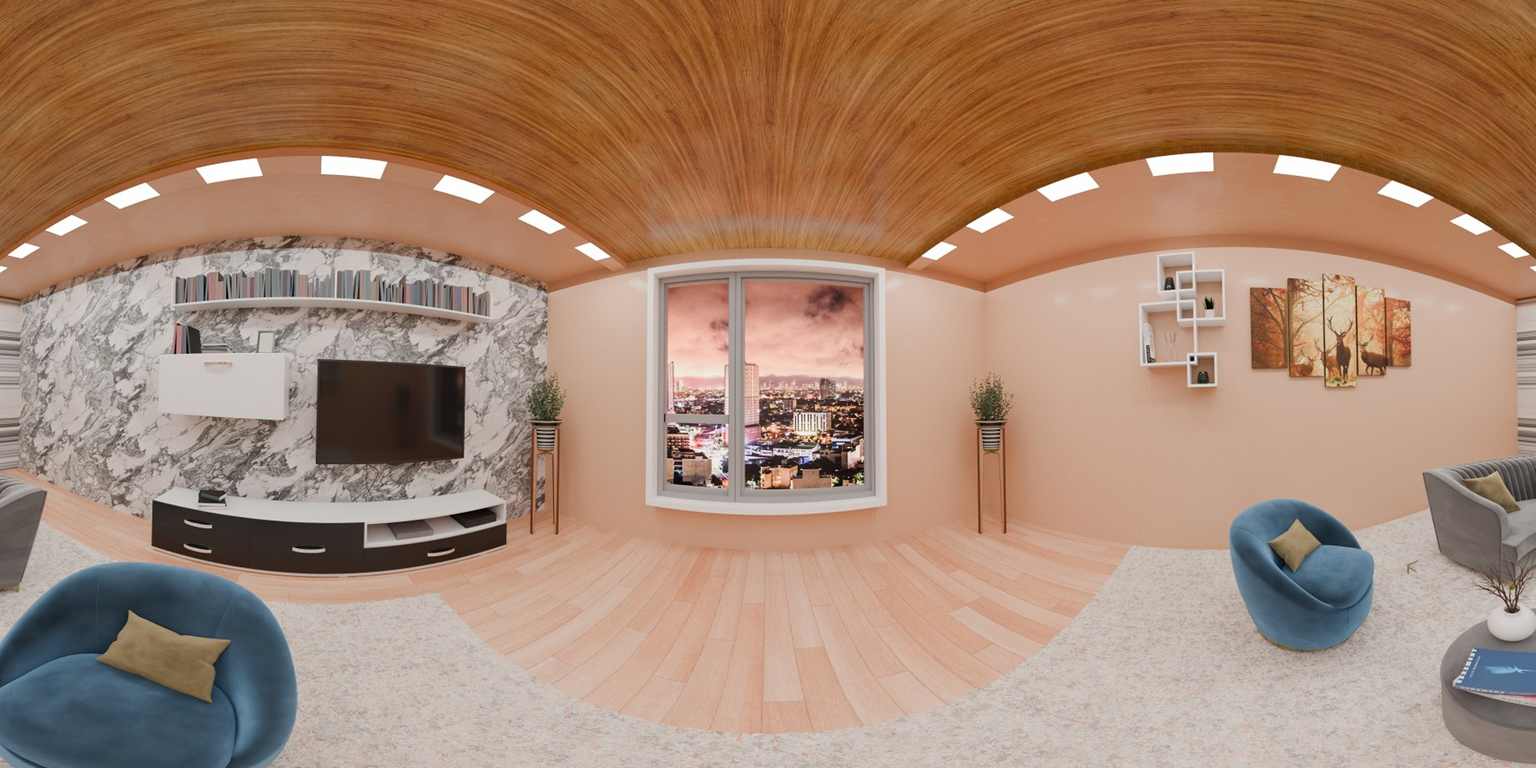
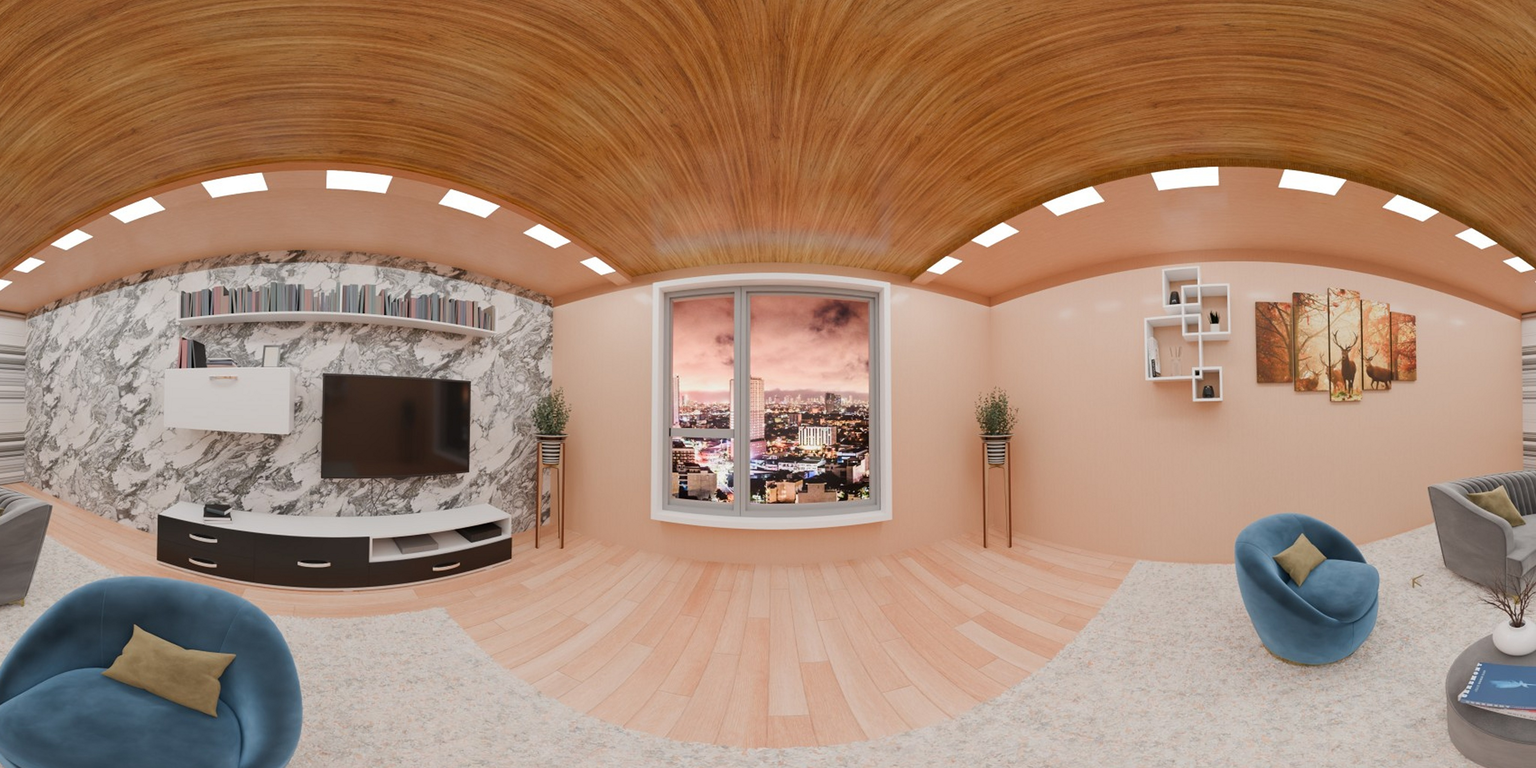
Hang the blind from the top of the window, not the middle of it
Reported as the blind sitting low, and it was - because the fit matched the
window's CENTRE to the blind's centre. A blind hangs from a headrail fixed at
the top of the window; it does not float in the middle of it.

The wooden room settles it. The blind's own geometry puts its box at
(1837, 788)-(2234, 1179); the window measures (1838, 785)-(2262, 1215). The top
edges are flush to within 3 px and the window carries on below the blind by
3.9 degrees. Matching centres put the blind roughly half that overhang too low,
which is exactly what it looked like.

So a room is now scaled uniformly until its window is as wide as the reference
one - width being what decides whether the blind covers the glass - and then
pinned by the window's TOP edge. What is left over shows below, which is where
a window is supposed to show.

The supplied room fits wooden at x1.280 and leaves 3.9 degrees below the blind,
the same as the reference room, and vertical at x0.851 with the blind 3% inside
the glass.

WINDOWS replaces the previous per-product table: the reference window measured
off each product's own room, rather than the blind's box with a guessed reveal
around it. verify_room.py draws the blind's footprint so the top alignment can
be seen rather than argued about.

diff --git a/README.md b/README.md
@@ -266,73 +266,64 @@ is not exactly 2:1 shows a pinched ceiling and a visible seam.
 
 ### Fitting a room to the blind: `window`
 
-The blind hangs at the middle of the bundle's world and **cannot be moved or
-resized** - it is geometry at a fixed distance from a fixed camera, compiled in.
-Measured off the running wooden scene it is **34.9 deg wide by 34.3 deg tall,
-3.5 deg above the horizon**, and the wooden room puts a window right there:
-**36.9 x 38.2 deg, dead centre**, leaving a little reveal around it.
+The blind **cannot be moved or resized** - it is geometry at a fixed distance
+from a fixed camera, compiled into the bundle. So the room is fitted to it.
 
-**Each product has its own target**, because the blinds are not the same size.
-A vertical blind is far wider than a wooden one, and its room's window is
-**56.1 x 47.8 deg**. Fitting a room against the wrong product's target hangs
-the blind over the wall or leaves it lost in the glass, so `make_variants.py`
-keeps a `TARGETS` table keyed by `based_on`. To add a base product, grid its
-own room and read the window off it:
-
-```bash
-python grid_window.py <bench>/.../maps/preload/<product>/scenebk.jpg 1700 700 2400 1400 1
-```
-
-One supplied room can serve several products - each variant fits it to its own
-blind and writes its own `/maps/scenes/<key>.jpg`. `wooden-premium` and
-`vertical-premium` share one file: the wooden blind needs the room pushed back
-(x1.287), the vertical blind needs it pulled forward (x0.850), and
-`scene_fit: "width"` on the vertical one stops the wide blind overhanging the
-glass.
-
-So the room has to be fitted to the blind. Measure the window in the supplied
-image and give its outer frame in that image's own pixels:
+Measure the window in the supplied image and give its outer frame in that
+image's own pixels:
 
 ```json
-"window": [347.5, 395.0, 636.0, 675.0]
+"window": [857, 357, 1122, 640]
 ```
 
-`reproject()` derives everything else - where to aim, and how much to scale so
-the window ends up near 36.9 x 38.2 deg.
+Everything else follows. `make_variants.py` scales the room uniformly until
+that window is as wide as the one in the product's **own** captured room, then
+pins the window's **top edge**.
 
-`scene_fit` decides how the two axes are reconciled, because a window is rarely
-the same *shape* as the one the blind was built for:
+### Why the top, and not the centre
 
-| `scene_fit` | |
-|---|---|
-| **uniform** (default) | one scale for both axes, the geometric mean. Keeps the room's proportions - it only moves the camera back or forward. |
-| exact | match each axis independently. Fits the window perfectly but stretches the room by whatever the two factors differ by. |
-| width / height | match that axis and follow it on the other. |
-| none | aim only, do not scale. |
+A blind hangs from a headrail fixed at the top of the window. It does not float
+in the middle of it. In the wooden room the blind's own geometry puts its box
+at (1837, 788)-(2234, 1179) and the window is (1838, 785)-(2262, 1215): the
+**top edges are flush to within 3 px**, and the window carries on below the
+blind. Matching the two centres instead - which this used to do - drops the
+blind by half that overhang, and it reads immediately as a blind hung too low.
 
-Prefer **uniform**. A room supplied with a wide, short window needed x1.05
-across but x0.78 up - matching both would have stretched it 36%. Uniform left
-the blind with a little more reveal at the sides than the top, which is what a
-real blind in a real recess looks like anyway. **Measure once; do not hand-
-compute the transform.** Deriving it by hand is how the scale got inverted the
-first time, and how `scene_zoom` ended up eyeballed at 1.25 when the real
-answer was 1.41 across and 1.25 up. Those differ because a window is rarely the
-same shape as the one the blind was built for, which a single uniform zoom
-cannot fix.
+Width is what decides whether the blind covers the glass, so that is what the
+scale is matched on; the leftover height shows below the blind, which is where
+a window is supposed to show. The supplied room fits wooden at x1.280, leaving
+3.9 degrees of window below the blind - the reference room has 3.9.
 
-An equirectangular image is linear in longitude and latitude, so aiming is a
-translation and fitting is a scale. It is done in **one resample straight from
-the supplied file** - rolling, then scaling, then resizing would interpolate
-three times and throw away detail a small source cannot spare. The margins that
-opens up are filled by tiling sideways (a panorama is a loop, so it is
-seamless) and by repeating the top and bottom rows, which is what the poles
-look like anyway.
+`scene_fit` can match on `height` or `uniform` instead, or `none` to skip
+scaling, but `width` is the default for this reason.
 
-Check the result with `verify_room.py <key>`, which draws the target box over
-the generated room. The window should sit inside it.
+### Every product needs its own reference
 
-`scene_center` / `scene_center_y` / `scene_zoom` still work if `window` is
-absent, but there is no good reason to use them.
+The blinds are not the same size, so the windows built around them are not
+either:
+
+| | Blind | Its room's window |
+|---|---|---|
+| wooden | 34.9 x 34.3 deg | 37.3 x 37.8 deg, top at 0.3833 |
+| vertical | 54.4 x 52.8 deg | 56.1 x 47.8 deg, top at 0.3652 |
+
+Fitting against the wrong product's reference hangs the blind over the wall.
+`WINDOWS` in `make_variants.py` holds them; to add one, grid that product's own
+room and read the window off it:
+
+```bash
+python grid_window.py <bench>/.../maps/preload/<product>/scenebk.jpg 1780 720 2320 1280 1
+```
+
+`blind_geometry.js` prints the blind's own angles from a product page's console,
+which is how the reference measurements get checked rather than eyeballed.
+
+One supplied room can serve several products - each fits it to its own blind and
+writes its own `/maps/scenes/<key>.jpg`. `wooden-premium` and `vertical-premium`
+share one file at x1.280 and x0.851.
+
+Check the result with `verify_room.py <key>`, which draws the blind's real
+footprint over the generated room. Its top should sit on the window's top.
 
 ### What this cannot fix
 
